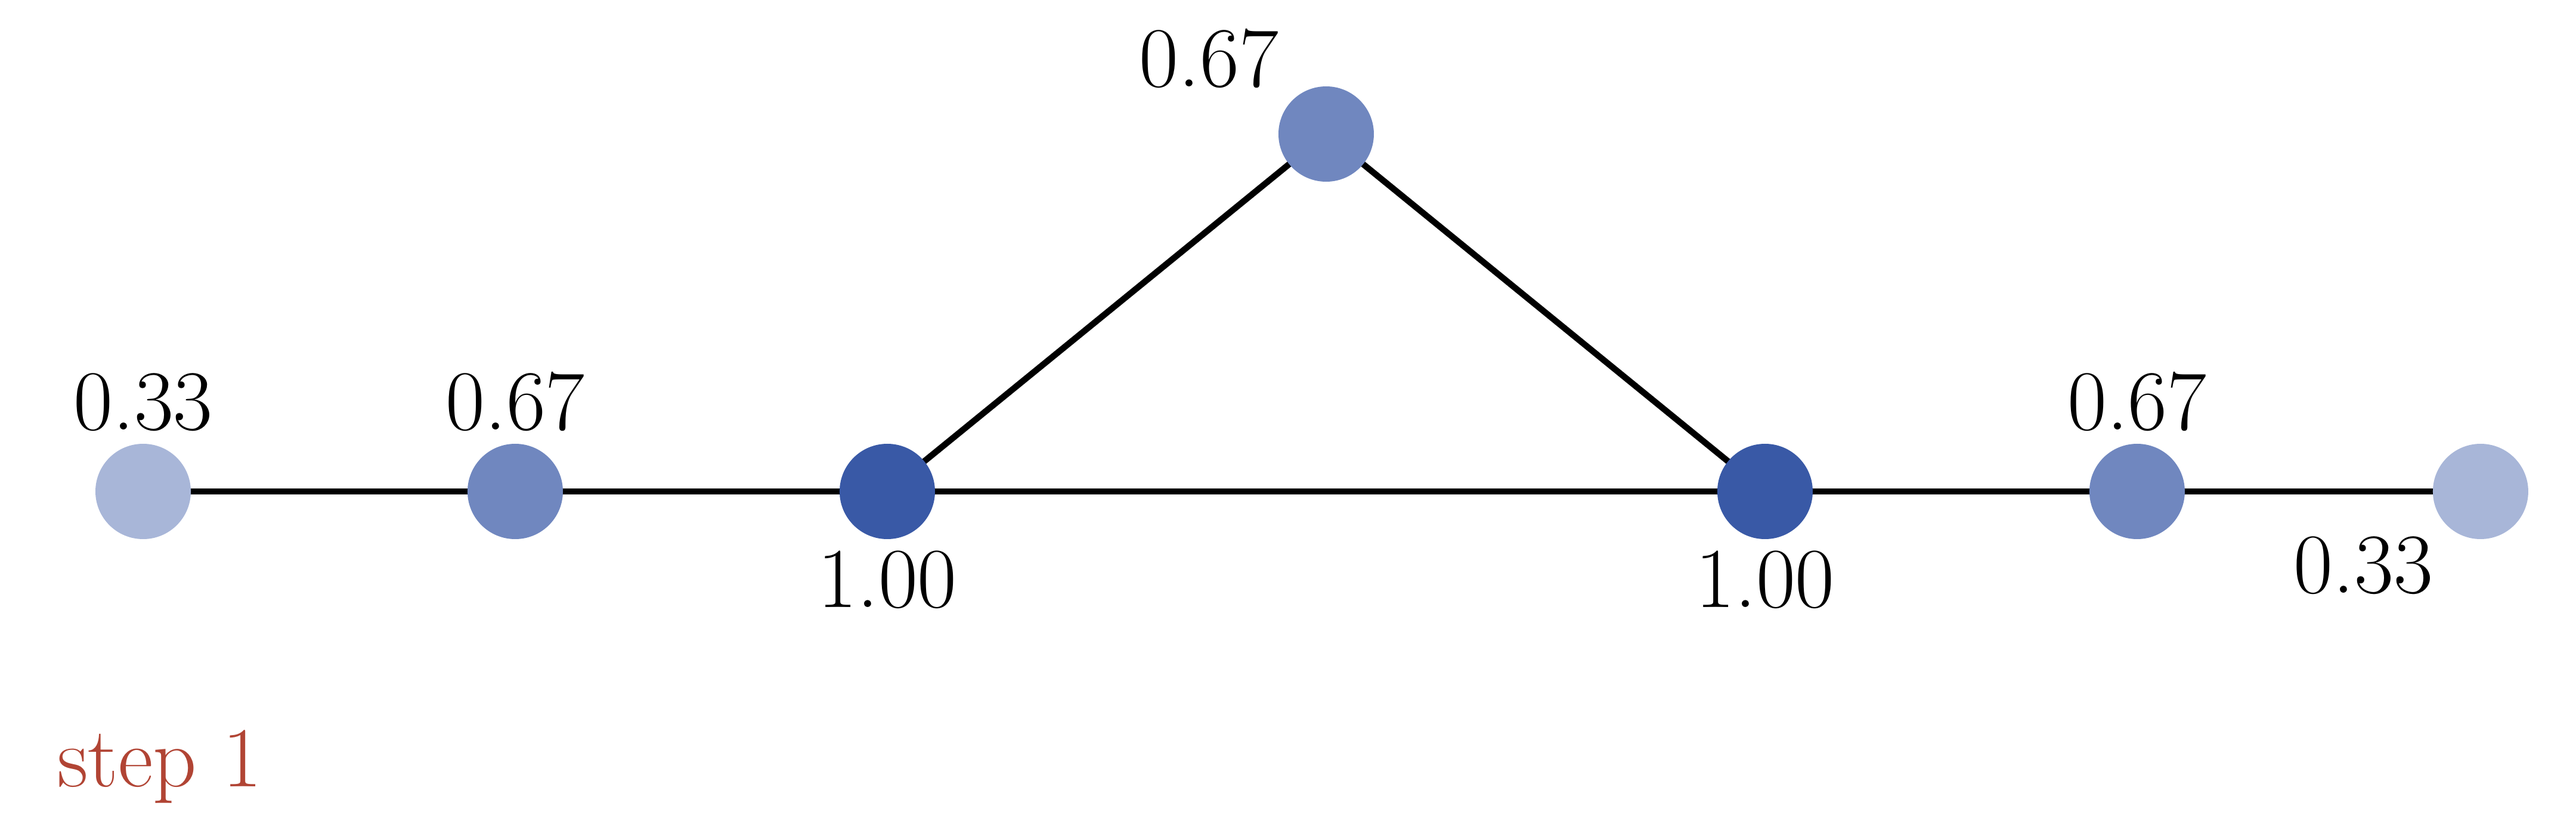
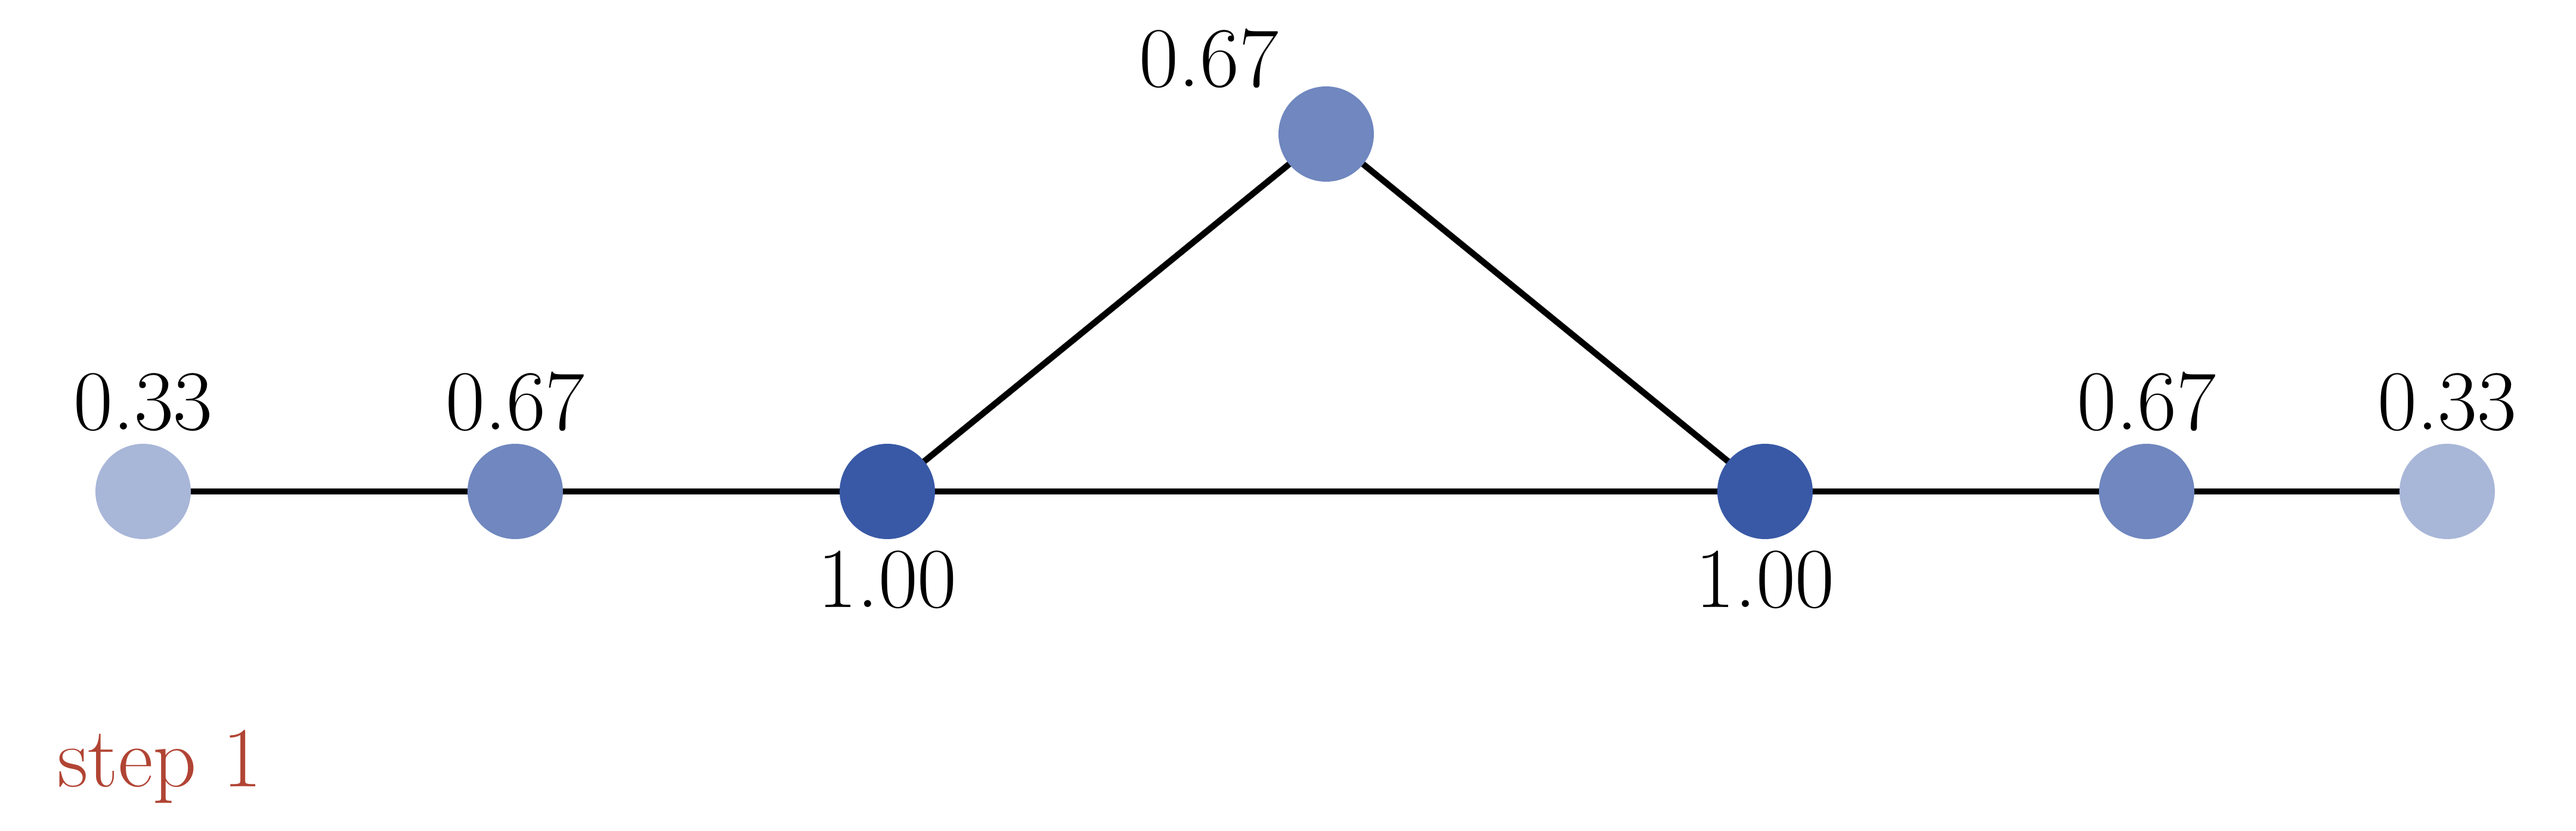
figs_walk: the rightmost value sits under its own node, not its neighbour's
The label solver expands each box by `gap` before the bounds check, so R's only
remaining side at x=1040 was a diagonal that put "0.29" nearer to N than to R.
Move R in 14bp and the number goes directly above the disc it belongs to.

diff --git a/docs/slide/new/m06/figures/figs_walk.py b/docs/slide/new/m06/figures/figs_walk.py
@@ -441,7 +441,7 @@ def fig_walks_arrive():
 BOW_EDGES = [("A", "B"), ("A", "P"), ("A", "M"), ("L", "M"),
              ("B", "P"), ("B", "N"), ("R", "N")]
 BOW_POS = {"L": (60, 150), "M": (216, 150), "A": (372, 150), "P": (556, 300),
-           "B": (740, 150), "N": (896, 150), "R": (1040, 150)}
+           "B": (740, 150), "N": (900, 150), "R": (1026, 150)}
 BOW_ORDER = ["L", "M", "A", "P", "B", "N", "R"]
 POWER_STEPS = (0, 1, 2, 4)
 
@@ -495,8 +495,11 @@ def fig_power_step(step):
         body += F.disc(*BOW_POS[n], "", fill=shade(val[i]))
 
     names = {n: printed[i] for i, n in enumerate(BOW_ORDER)}
+    # The right-hand bound is 1076 rather than 1072 so that R's value can sit directly
+    # under R: at 1072 the only side left was a diagonal that put the number nearer to
+    # N than to the node it belongs to.
     sides, boxes = F.place_labels(names, BOW_POS, BOW_EDGES,
-                                  bounds=(8, 62, 1072, 374), gap=3.0)
+                                  bounds=(8, 62, 1076, 374), gap=3.0)
     body += F.draw_labels(names, BOW_POS, sides)
     body += F.note(f"step ${step}$", (24, 34), color="accenttwo", anchor="west",
                    boxes=boxes)
